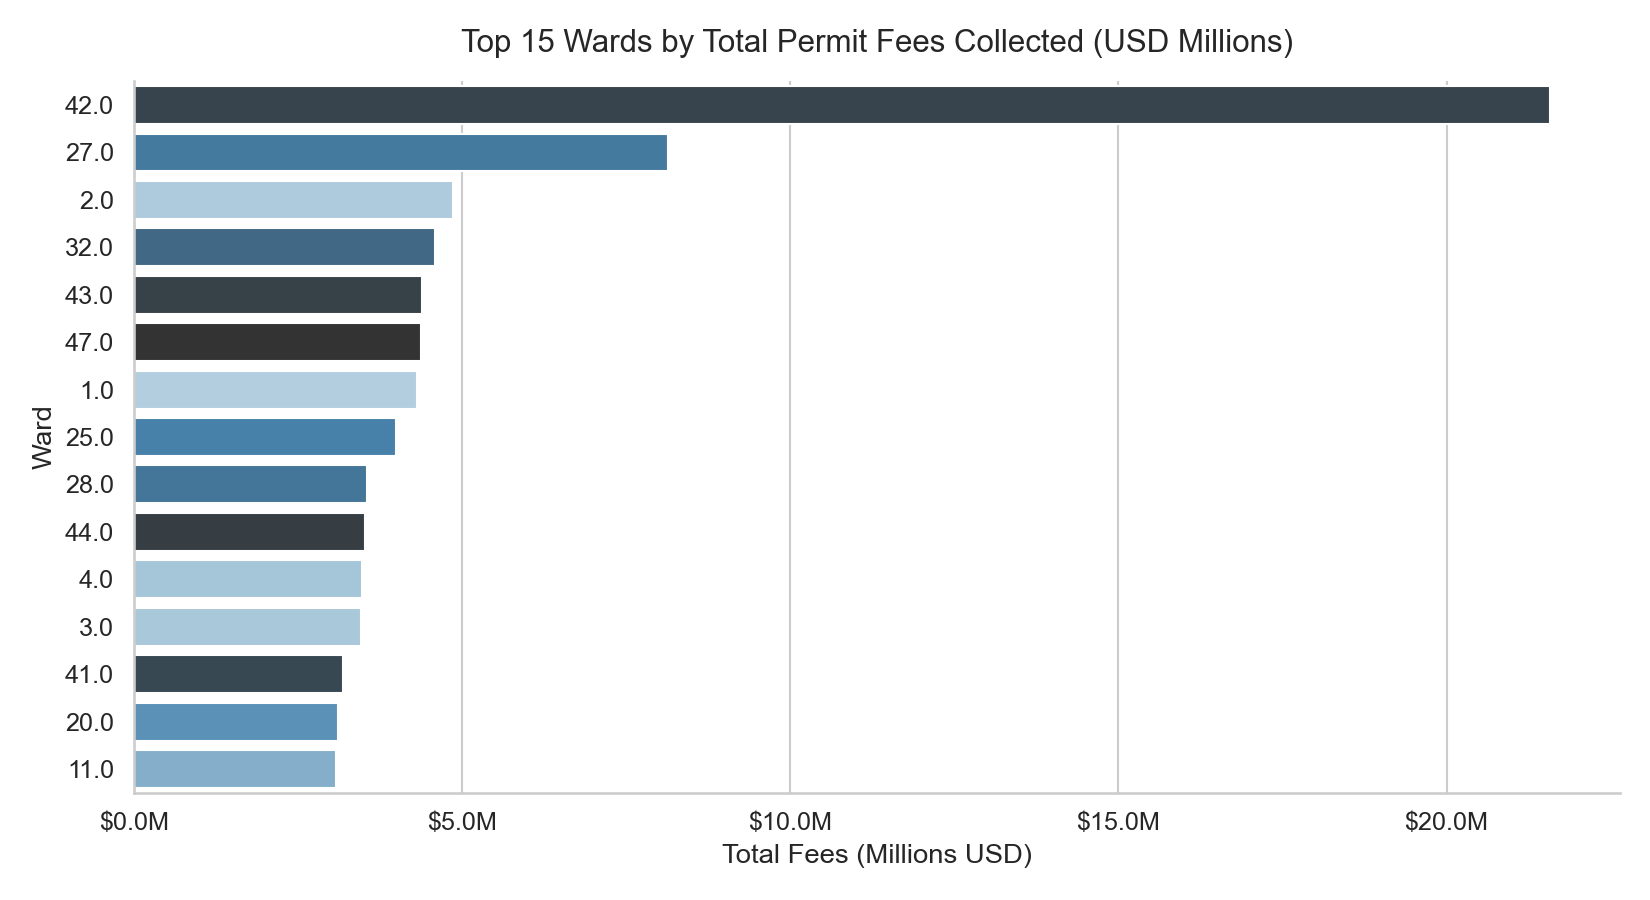
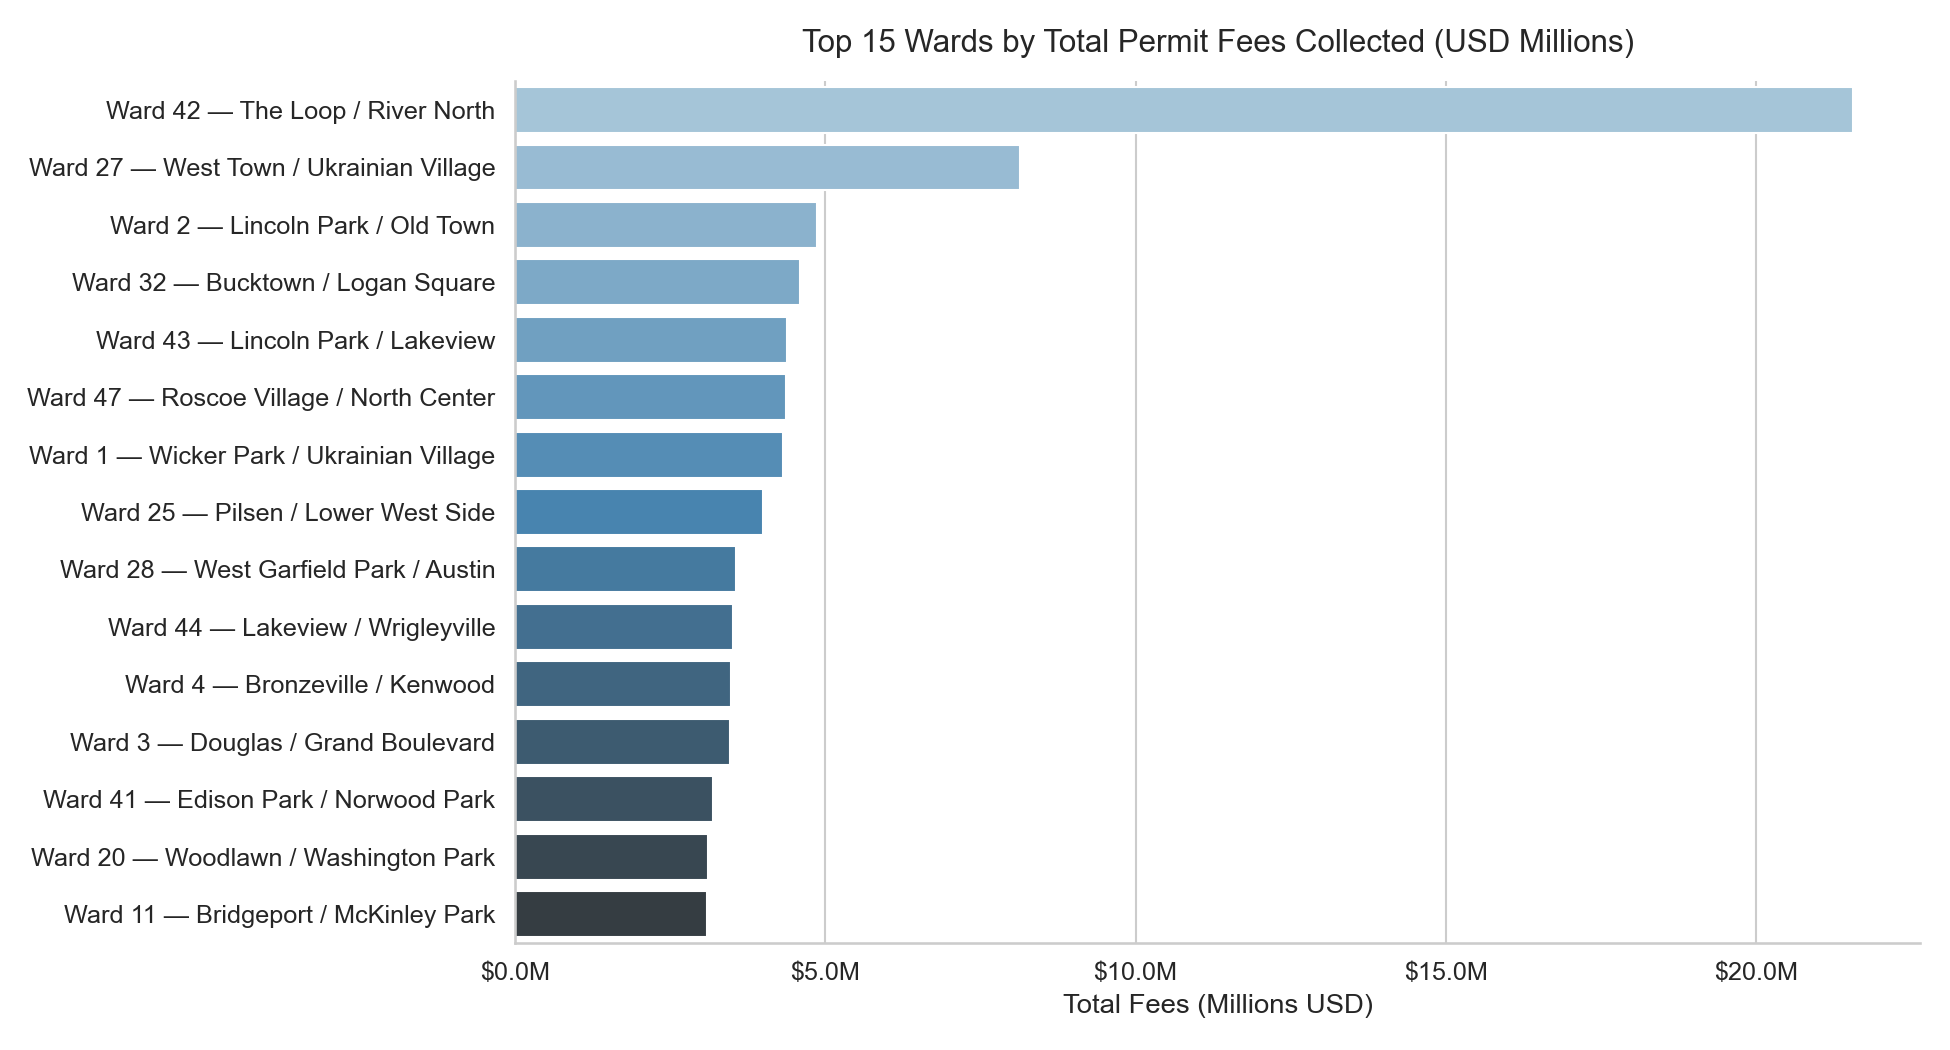
enhance: add neighborhood names to ward chart, add YoY change chart

Changed region(s): [[0.0, 0.0311, 0.9891, 0.9644]]

diff --git a/scripts/pipeline.py b/scripts/pipeline.py
@@ -96,6 +96,59 @@ plt.savefig(os.path.join(VIZ_DIR, "03_yearly_volume_vs_processing.png"), dpi=150
 plt.close()
 print("Saved 03_yearly_volume_vs_processing.png")
 
+WARD_NAMES = {
+    1: "Wicker Park / Ukrainian Village",
+    2: "Lincoln Park / Old Town",
+    3: "Douglas / Grand Boulevard",
+    4: "Bronzeville / Kenwood",
+    5: "Hyde Park / South Shore",
+    6: "Woodlawn / Chatham",
+    7: "South Shore / Calumet Heights",
+    8: "Chatham / Avalon Park",
+    9: "Roseland / Pullman",
+    10: "East Side / South Deering",
+    11: "Bridgeport / McKinley Park",
+    12: "Bridgeport / Armour Square",
+    13: "Beverly / Morgan Park",
+    14: "Marquette Park / Chicago Lawn",
+    15: "Austin / South Lawndale",
+    16: "Englewood / West Englewood",
+    17: "Englewood / West Englewood",
+    18: "West Lawn / Clearing",
+    19: "Beverly / Mount Greenwood",
+    20: "Woodlawn / Washington Park",
+    21: "Southside / Calumet",
+    22: "Little Village / Pilsen",
+    23: "Midway / Clearing",
+    24: "Austin / Garfield Park",
+    25: "Pilsen / Lower West Side",
+    26: "Humboldt Park / Logan Square",
+    27: "West Town / Ukrainian Village",
+    28: "West Garfield Park / Austin",
+    29: "Austin / West Humboldt Park",
+    30: "Portage Park / Jefferson Park",
+    31: "Belmont Cragin / Portage Park",
+    32: "Bucktown / Logan Square",
+    33: "Avondale / Belmont Gardens",
+    34: "Belmont Cragin / Montclare",
+    35: "Avondale / Irving Park",
+    36: "Dunning / Portage Park",
+    37: "Dunning / Belmont Cragin",
+    38: "Jefferson Park / Norwood Park",
+    39: "Norwood Park / Edison Park",
+    40: "Rogers Park / Edgewater",
+    41: "Edison Park / Norwood Park",
+    42: "The Loop / River North",
+    43: "Lincoln Park / Lakeview",
+    44: "Lakeview / Wrigleyville",
+    45: "Ravenswood / Lincoln Square",
+    46: "Uptown / Edgewater",
+    47: "Roscoe Village / North Center",
+    48: "Rogers Park / West Ridge",
+    49: "Rogers Park / West Ridge",
+    50: "West Ridge / Peterson Park",
+}
+
 ward_fees = (
     df.groupby("ward")["total_fee"]
     .sum()
@@ -104,14 +157,18 @@ ward_fees = (
     .reset_index()
 )
 ward_fees["total_fee_millions"] = ward_fees["total_fee"] / 1_000_000
+ward_fees["ward_int"] = ward_fees["ward"].astype(float).astype("Int64")
+ward_fees["ward_label"] = ward_fees["ward_int"].apply(
+    lambda w: f"Ward {w} — {WARD_NAMES.get(int(w), 'Chicago')}" if pd.notna(w) else "Unknown"
+)
 
-fig, ax = plt.subplots(figsize=(11, 6))
-sns.barplot(data=ward_fees, x="total_fee_millions", y="ward",
-            hue="ward", palette="Blues_d", ax=ax, orient="h",
-            order=ward_fees["ward"], legend=False)
+fig, ax = plt.subplots(figsize=(13, 7))
+sns.barplot(data=ward_fees, x="total_fee_millions", y="ward_label",
+            hue="ward_label", palette="Blues_d", ax=ax, orient="h",
+            order=ward_fees["ward_label"], legend=False)
 ax.set_title("Top 15 Wards by Total Permit Fees Collected (USD Millions)", fontsize=15, pad=14)
 ax.set_xlabel("Total Fees (Millions USD)")
-ax.set_ylabel("Ward")
+ax.set_ylabel("")
 ax.xaxis.set_major_formatter(mticker.FuncFormatter(lambda x, _: f"${x:.1f}M"))
 sns.despine()
 plt.tight_layout()
@@ -132,6 +189,30 @@ plt.tight_layout()
 plt.savefig(os.path.join(VIZ_DIR, "05_processing_time_by_year.png"), dpi=150)
 plt.close()
 print("Saved 05_processing_time_by_year.png")
+
+yoy = df.groupby("year").size().reset_index(name="permit_count")
+yoy["pct_change"] = yoy["permit_count"].pct_change() * 100
+yoy = yoy.dropna(subset=["pct_change"])
+yoy["color"] = yoy["pct_change"].apply(lambda x: "#2a6496" if x >= 0 else "#e74c3c")
+yoy["label"] = yoy["pct_change"].apply(lambda x: f"+{x:.1f}%" if x >= 0 else f"{x:.1f}%")
+
+fig, ax = plt.subplots(figsize=(10, 5))
+bars = ax.bar(yoy["year"], yoy["pct_change"], color=yoy["color"], width=0.5, alpha=0.85)
+ax.axhline(0, color="black", linewidth=0.8, linestyle="--")
+for bar, label, val in zip(bars, yoy["label"], yoy["pct_change"]):
+    offset = 0.4 if val >= 0 else -1.2
+    ax.text(bar.get_x() + bar.get_width() / 2, bar.get_height() + offset,
+            label, ha="center", va="bottom", fontsize=11, fontweight="bold",
+            color="#2a6496" if val >= 0 else "#e74c3c")
+ax.set_title("Year-over-Year Change in Permit Volume — Chicago (2019–2023)", fontsize=15, pad=14)
+ax.set_xlabel("Year")
+ax.set_ylabel("% Change vs Previous Year")
+ax.set_xticks(yoy["year"])
+sns.despine()
+plt.tight_layout()
+plt.savefig(os.path.join(VIZ_DIR, "06_yoy_permit_change.png"), dpi=150)
+plt.close()
+print("Saved 06_yoy_permit_change.png")
 
 summary = df.groupby("year").agg(
     total_permits=("id", "count"),

diff --git a/README.md b/README.md
@@ -107,6 +107,9 @@ Tableau Public
 ### Processing Time Distribution by Year
 ![Processing Time](docs/visualizations/05_processing_time_by_year.png)
 
+### Year-over-Year Permit Volume Change
+![YoY Change](docs/visualizations/06_yoy_permit_change.png)
+
 ---
 
 ## Project Structure
